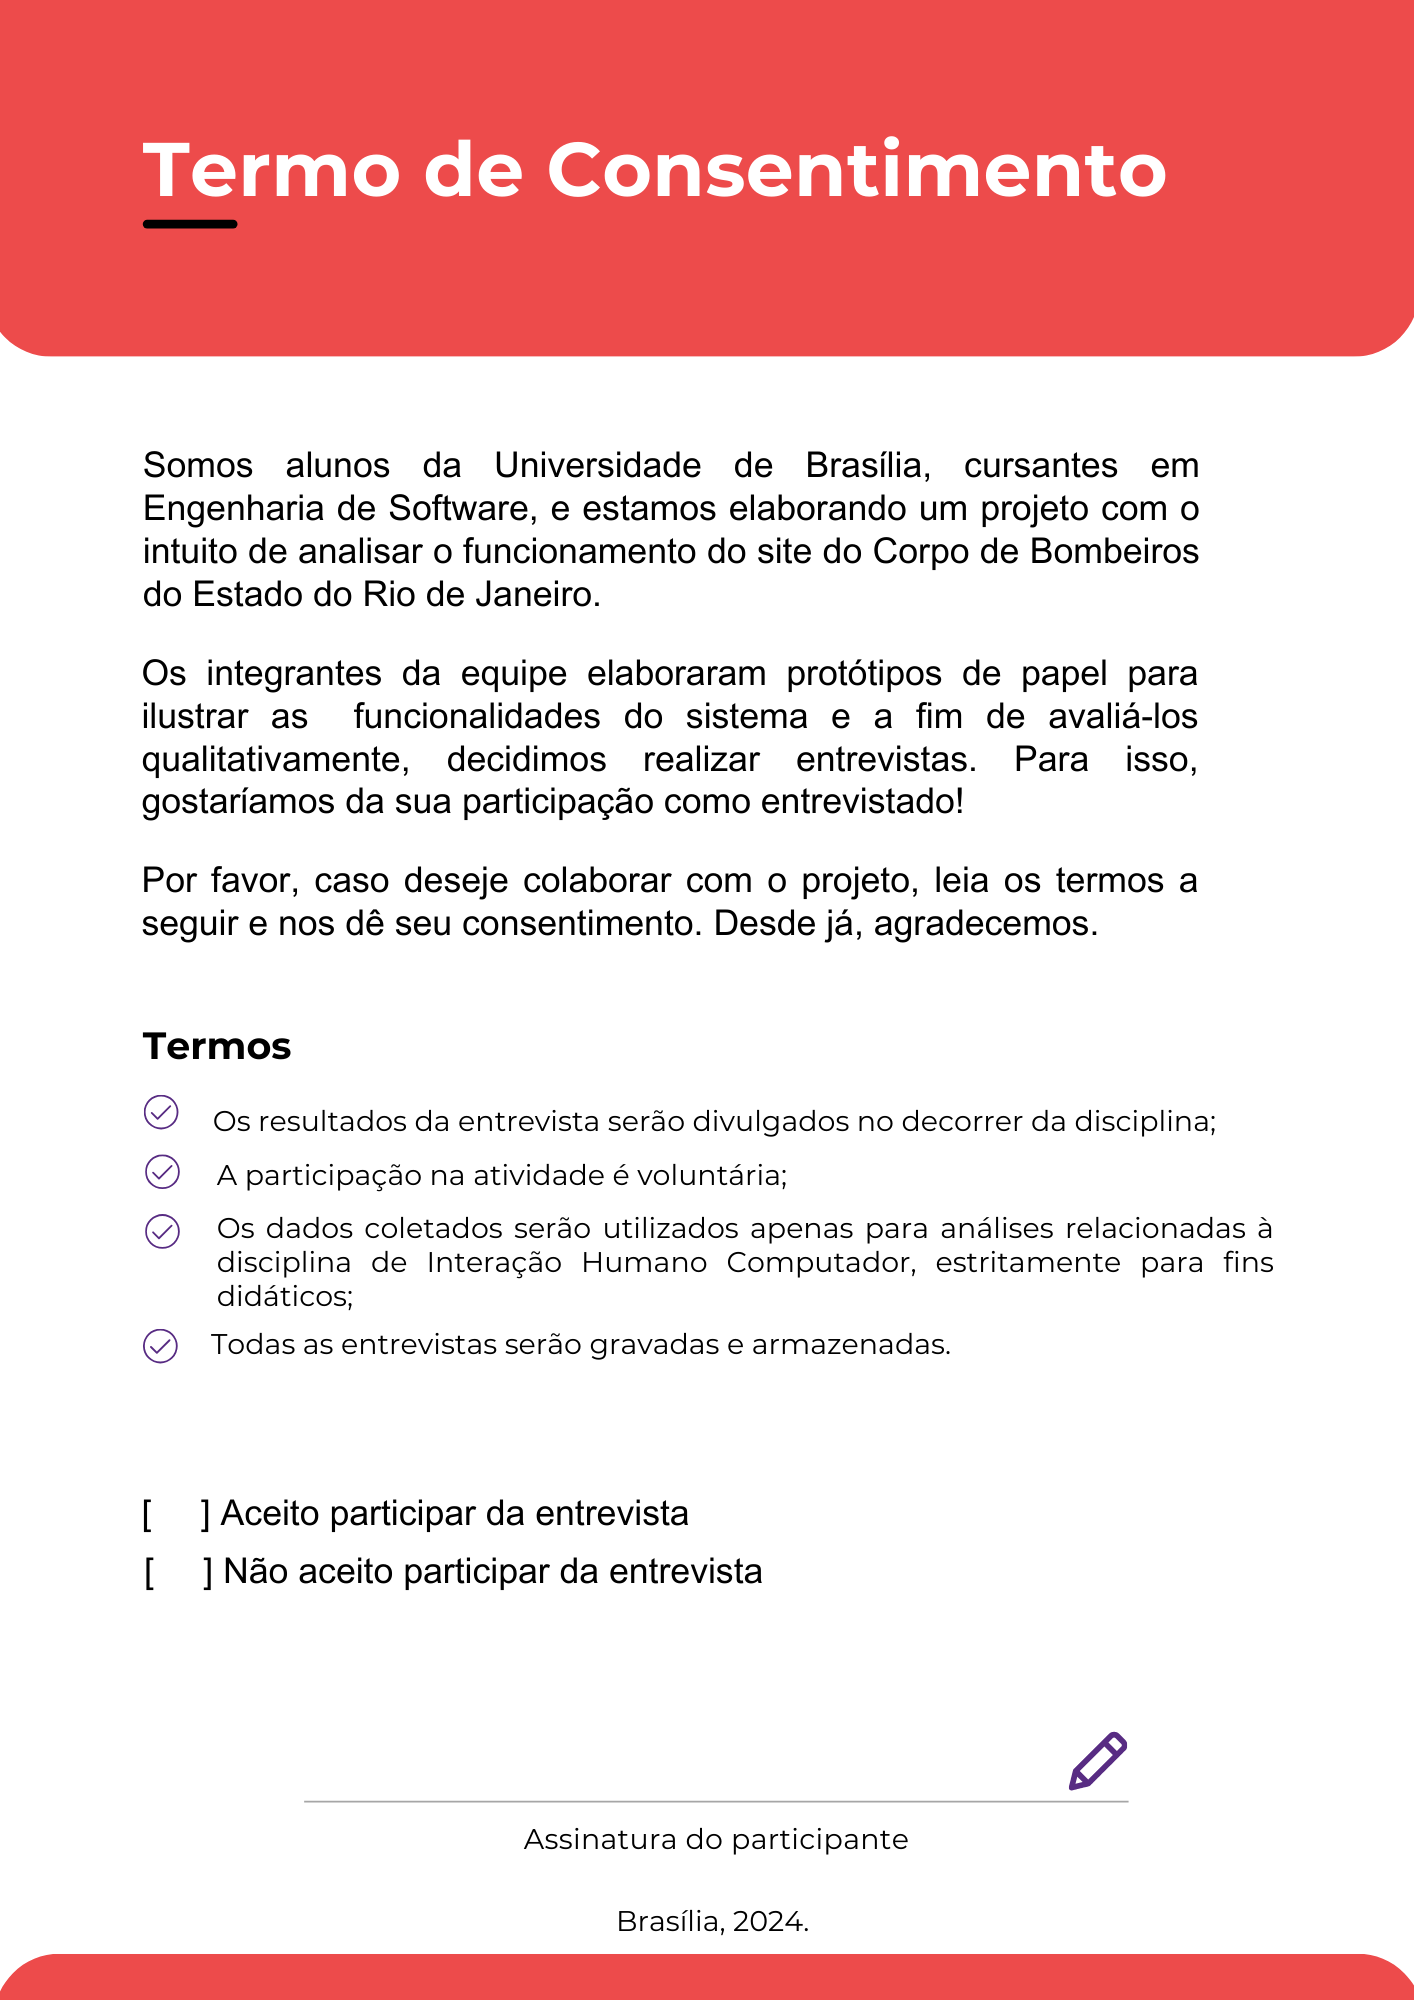
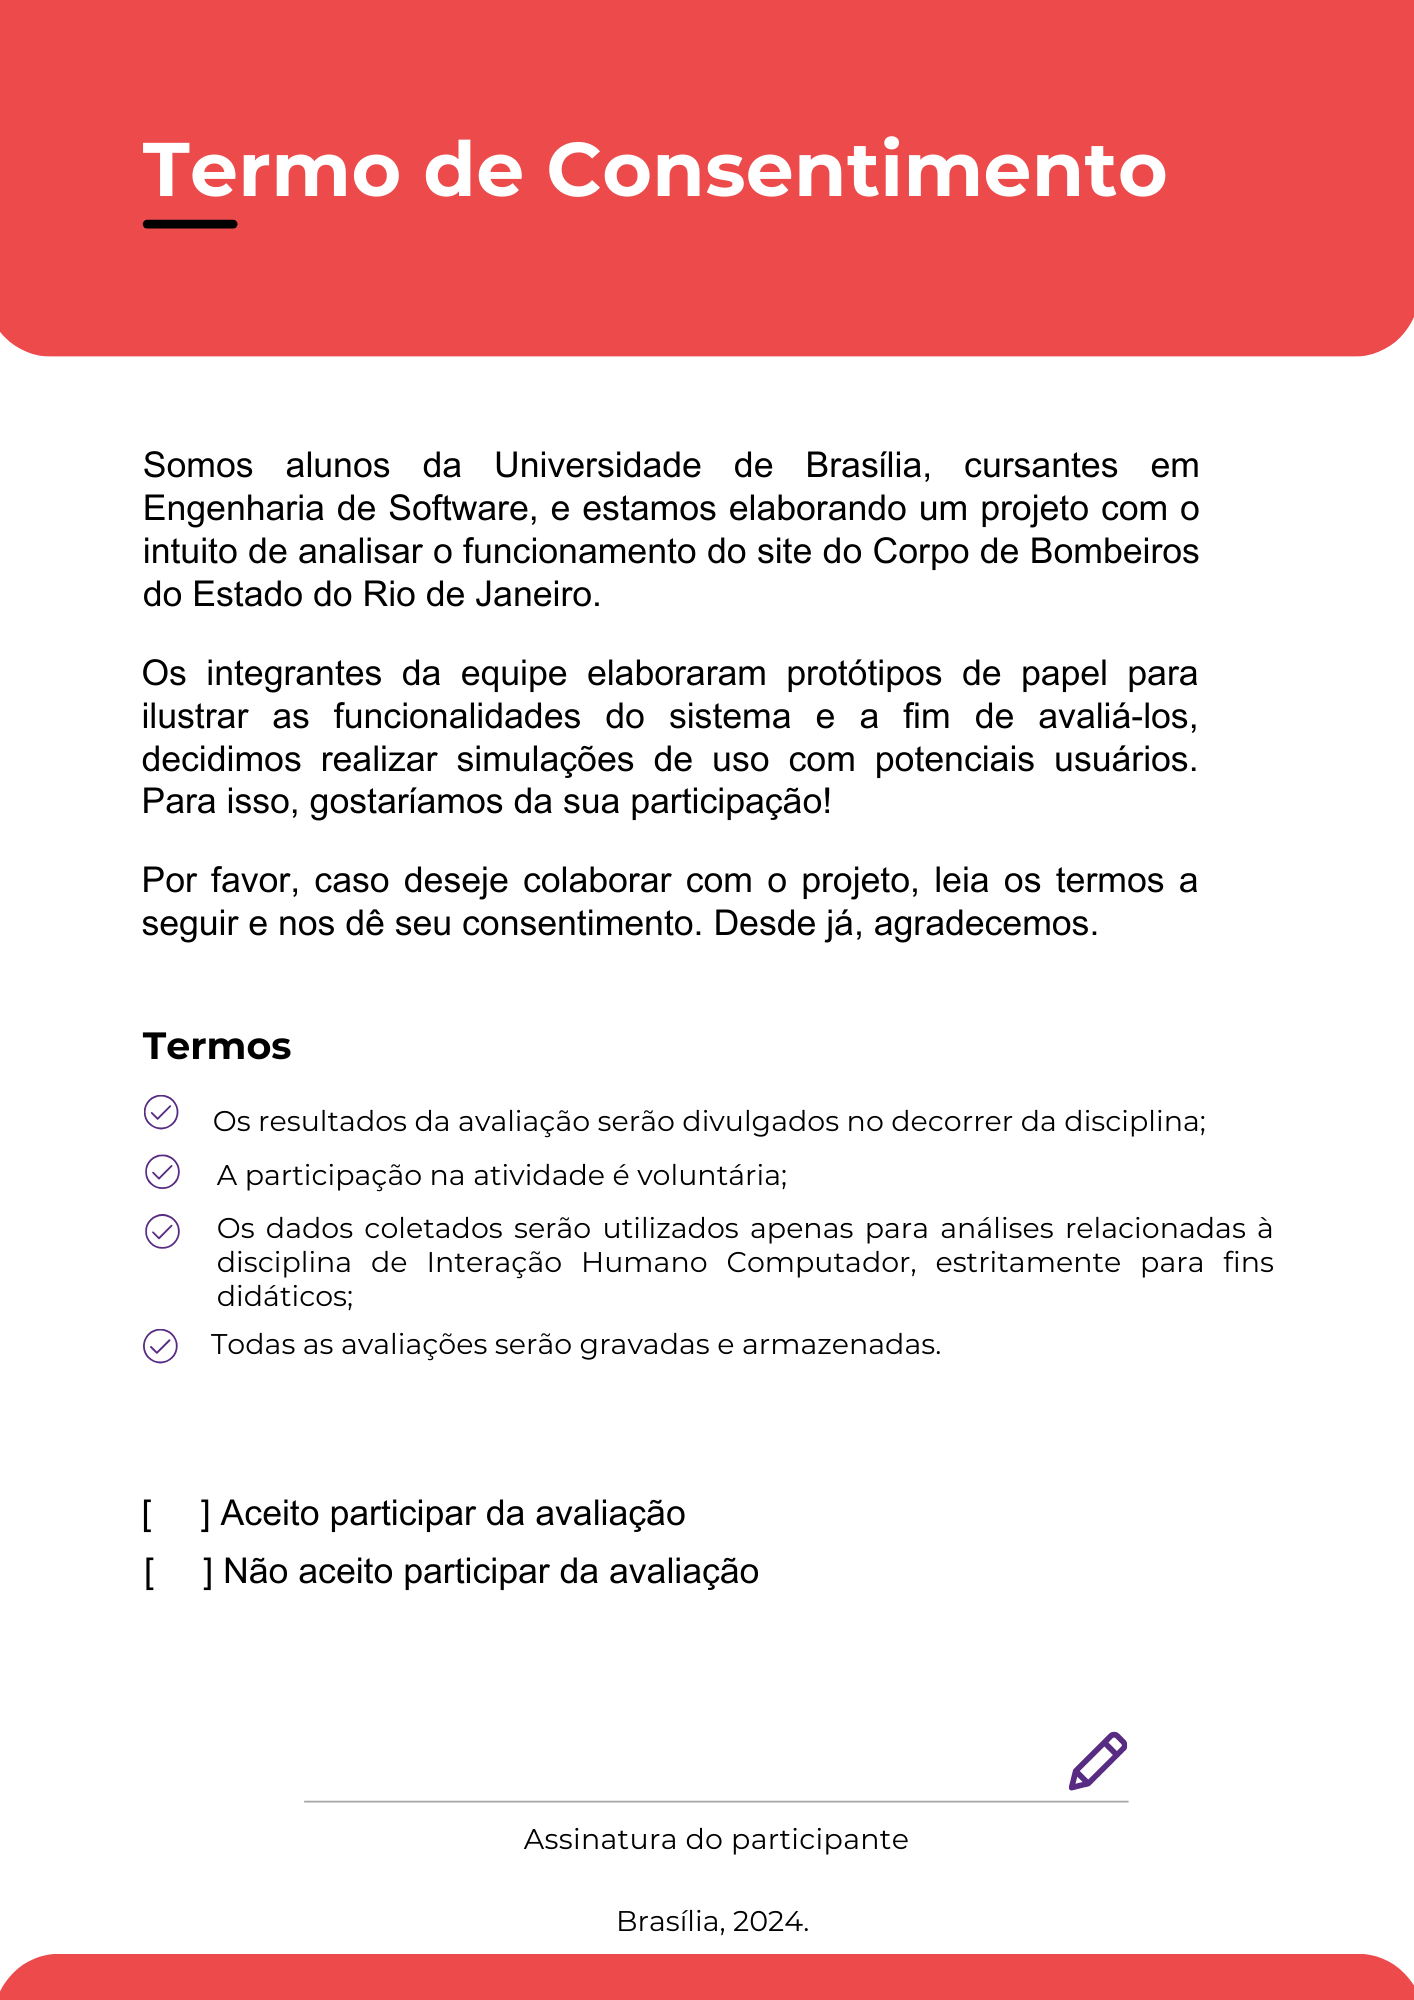
DECIDE + resultados storyboard

diff --git a/docs/design_avaliacao_desenvolvimento/nivel_1/story_board/relato_resultados.md b/docs/design_avaliacao_desenvolvimento/nivel_1/story_board/relato_resultados.md
@@ -13,7 +13,7 @@ Segue abaixo na tabela 1, o cronograma das entrevistas feitas:
 |    Entrevistador(es)   | Entrevistado(s)   | Horário do Início  |  Horário do Fim  |    Data    |    Tarefa(s)    |      Local     |
 | :--------------------: | :---------------: | :----------------: | :--------------: | :--------: | :-------------: | :------------: |
 | [Mariana Letícia](https://github.com/Marianannn) | Bernardo Machado | 10:00 | 10:15 | 24/05/2024 | Solicitar declaração de registro de ocorrência  | FGA |
-| [Daniela Alarcão](https://github.com/danialarcao) | João Vitor Merlim | 12:00 | 12:30 | 24/05/2024 | Agendamento de atendimento presencial | FGA |
+| [Daniela Alarcão](https://github.com/danialarcao) | Felipe da Silva Xavier Pereira | 17:00 | 17:04 | 28/05/2024 | Agendamento de atendimento presencial | PGJM |
 | [Pedro Henrique](https://github.com/PedroHhenriq) |     Lucas Monteiro    |      12:00     |     12:30     |  28/05/2024  |   CB Cursos 2   | FGA |
 | [Lucas Avelar](https://github.com/LucasAvelar2711) |     Renan Monteiro    |      12:00      |     12:30      |  28/05/2024  |   CB Cursos 1   |  FGA |
 | [Bruna Lima](https://github.com/libruna) | Marina Márcia | 14:45 | 14:53 |  29/05/2024  |  Solicitação de Ficha de Atendimento | FGA |
@@ -143,6 +143,56 @@ As perguntas e suas respectivas respostas podem ser encontradas na **Tabela 3** 
 
 - **Sugestões de melhoria:** Dado que a participante não apresentou problemas ou dificuldades durante a visualização do storyboard, não há sugestões de melhoria a serem destacadas.
 
+## Entrevista 3 - Agendamento de Atendimento Presencial
+
+<center>
+[Link para o vídeo da entrevista](https://youtu.be/Lt-4Gh-kDgg?si=FAY51G0M0CZZiijN)
+
+<iframe width="1000vw" height="400vh" src="https://www.youtube.com/embed/Lt-4Gh-kDgg?si=lqZHO5Cy03MrOMNw" title="YouTube video player" frameborder="0" allow="accelerometer; autoplay; clipboard-write; encrypted-media; gyroscope; picture-in-picture; web-share" referrerpolicy="strict-origin-when-cross-origin" allowfullscreen></iframe>
+
+
+<p>Vídeo 3: Entrevista 3 - Agendamento de Atendimento Presencial</p>
+
+Fonte: [Daniela Alarcão](https://github.com/danialarcao).
+</center><br>
+
+<ul>
+<li><p style="text-align: justify;"><strong>Coleta de dados: </strong> Para a entrevista acerca do Agendamento de Atendimento Presencial foram realizadas perguntas gerais sobre o entrevistado e perguntas específicas sobre o storyboard. O entrevistado é o Felipe da Silva Xavier Pereira, de 23 anos, servidor público do Ministério Público Militar.<br><br>
+As perguntas e suas respectivas respostas podem ser encontradas na <strong>Tabela 4 </strong> abaixo:</li></p>
+</ul>
+
+<center>
+
+| <div align="center">Número</div> | <div align="center">Pergunta</div> | <div align="center">Respostas</div> |
+| :-------------------------------: | :-----------------------------------------------------------------------: | :---------------------------------: |
+| <div align="center">1</div>       | <div align="center">Qual o seu nome?</div>                                | <div align="center">Felipe.</div>   |
+| <div align="center">2</div>       | <div align="center">Qual a sua idade?</div>                               | <div align="center">23.</div>       |
+| <div align="center">3</div>       | <div align="center">Como você avalia o seu grau de conhecimento tecnológico?</div> | <div align="center">Alto.</div> |
+| <div align="center">4</div>       | <div align="center">Você já utilizou o site do Corpo de Bombeiros Militar do Rio de Janeiro ou algum similar?</div> | <div align="center">Sim.</div> |
+| <div align="center">5</div>       | <div align="center">A sequência de passos apresentada pelo storyboard é clara e compreensível?</div> | <div align="center">Sim.</div> |
+| <div align="center">6</div>       | <div align="center">O contexto da história é facilmente compreendido?</div> | <div align="center">Sim.</div> |
+| <div align="center">7</div>       | <div align="center">Existe algo no storyboard que precise de ajuste?</div> | <div align="center">Sim, o antepenúltimo quadro. Na história contada no storyboard o relatório é disponibilizado pelo bombeiro no mesmo dia do atendimento presencial. Contudo, isso não seria possível, pois antes da conclusão do relatório deveria ser realizada uma perícia no local do incidente.</div> |
+
+**Fonte** - [Bruna Lima](https://github.com/libruna), [Daniela Alarcão](https://github.com/danialarcao), [Genilson Junior](https://github.com/manuziny), [Lucas Avelar](https://github.com/LucasAvelar2711), [Mariana Letícia](https://github.com/Marianannn) e [Pedro Henrique](https://github.com/PedroHhenriq).
+
+**Tabela 4** - Roteiro de perguntas da entrevista 3.
+</center>
+
+<br>
+
+<ul><strong>Interpretação dos dados: </strong>
+    <li><p style="text-align: justify;"> O entrevistado conseguiu compreender a sequência de eventos do storyboard. </p></li>
+    <li> O entrevistado conseguiu fornecer bons feedbacks. </li>
+    <ul>
+    <li><p style="text-align: justify;"><strong>Conclusão:</strong> Como o entrevistado não enfrentou dificuldades durante a entrevista e conseguiu compreender a história contada pelo storyboard da funcionalidade sem obstáculos, é possível concluir que o storyboard é claro e coerente.</p></li>
+    </ul>
+<ul><strong>Lista de problemas encontrados: </strong>
+<li> O andamento da entrevista não enfrentou quaisquer problemas. Tudo fluiu bem.</li>
+</ul>
+<ul><strong>Sugestões de melhoria: </strong>
+<li>Quanto à análise do storyboard, o entrevistado recomendou alterações na sequência de passos nos eventos finais, para que a história tenha mais compatibilidade com a vida real. </li>
+</ul></ul>
+
 
 
 
@@ -230,3 +280,4 @@ As perguntas e respostas representando a coleta de dados da entrevista 1 estão 
 | `2.0`   | 25/05/2024 | Adição de Introdução                        | [Mariana Letícia](https://github.com/Marianannn) |  [Bruna Lima](https://github.com/libruna)     |
 | `3.0`   | 25/05/2024 | Adição de relato de resultados 1                        | [Mariana Letícia](https://github.com/Marianannn) |    [Bruna Lima](https://github.com/libruna)   |
 | `4.0`   | 02/06/2024 | Adição de relato de resultados 2                       |  [Bruna Lima](https://github.com/libruna)  |     |
+| `5.0`   | 03/06/2024 | Adição de relato de resultados 3                       |  [Daniela Alarcão](https://github.com/danialarcao)  |     |

diff --git a/docs/design_avaliacao_desenvolvimento/nivel_2/prototipo_papel/planejamento_prototipo_papel.md b/docs/design_avaliacao_desenvolvimento/nivel_2/prototipo_papel/planejamento_prototipo_papel.md
@@ -16,7 +16,7 @@
 ## E - Explorar perguntas
 
 ## C - Escolher método
-<p style="text-align: justify;"> O método escolhido para a avaliação foi o da <strong>entrevista</strong>. Personalizável e ágil, esse método permite adaptar as perguntas de acordo com as particularidades do projeto e do andamento do diálogo, ao mesmo tempo em que agiliza a coleta e análise dos dados, a partir da obtenção de feedbacks detalhados e qualitativos. </p>
+<p style="text-align: justify;"> O método escolhido para a avaliação foi o <strong>"prototipação em papel"</strong>. Esse método avalia a usabilidade do protótipo através de simulações de uso com a participação de usuários. Neste método, cada membro da equipe atuará como um "computador", simulando em papel a execução do sistema e suas respostas às ações do usuário. </p>
 
 
 ## I - Identificar questões práticas 
@@ -73,16 +73,16 @@ Na Tabela 1, apresentamos o cronograma planejado das sessões para avaliação d
 </center>
 
 ## D - Decidir questões éticas
-<p style="text-align: justify;">Em consonância com os princípios éticos e de integridade, foi elaborado um termo de consentimento que deverá ser assinado por cada entrevistado antes do início da avaliação dos protótipos de papel. Este documento detalha os procedimentos envolvidos na entrevista e a forma como os dados serão utilizados. A assinatura deste termo será voluntária e demonstrará o consentimento informado do participante para realizar a entrevista. Tal medida visa assegurar que todos os envolvidos estejam plenamente cientes e confortáveis com sua participação. </p>
+<p style="text-align: justify;">Em consonância com os princípios éticos e de integridade, foi elaborado um termo de consentimento que deverá ser assinado por cada usuário antes do início da avaliação dos protótipos de papel. Este documento detalha os procedimentos envolvidos na avaliação e a forma como os dados serão utilizados. A assinatura deste termo será voluntária e demonstrará o consentimento informado do participante. Tal medida visa assegurar que todos os envolvidos estejam plenamente cientes e confortáveis com sua participação. </p>
 
 <img alt="Logo" src="../../prototipo_papel/img/TermoDeConsentimento.png" width="80%">
 <p>Figura 1 - Termo de Consentimento (Fonte: Daniela Alarcão, 2024). </p>
 
 ## E - Examinar dados
 
-<p style="text-align: justify;">Durante a realização das entrevistas, a equipe observará atentamente todas as considerações feitas pelos entrevistados. Essas considerações incluirão comentários sobre aspectos intuitivos ou confusos, preferências pessoais e sugestões de melhorias. O feedback dos entrevistados fornecerá uma perspectiva valiosa sobre a percepção dos protótipos de papel e ajudará a identificar oportunidades de melhorias. </p>
+<p style="text-align: justify;">Durante a realização das avaliações, a equipe observará atentamente todas as considerações feitas pelos usuários escolhidos. Essas considerações incluirão comentários sobre aspectos intuitivos ou confusos, preferências pessoais e sugestões de melhorias. O feedback dos usuários fornecerá uma perspectiva valiosa sobre a percepção dos protótipos de papel e ajudará a identificar oportunidades de melhorias. </p>
 
-<p style="text-align: justify;">Ao final de cada entrevista, a equipe discutirá todos os pontos abordados e documentará o máximo possível das informações coletadas. Isso garantirá que nenhum detalhe importante seja perdido e permitirá uma análise mais abrangente. </p>
+<p style="text-align: justify;">Ao final de cada avaliação, a equipe discutirá todas as informações coletadas. Isso garantirá que nenhum detalhe importante seja perdido e permitirá uma análise mais abrangente. </p>
 
 <p style="text-align: justify;">Com todas as informações coletadas e documentadas, a equipe realizará uma análise detalhada para identificar os pontos fortes de cada protótipo de papel, bem como as áreas que necessitam de melhorias. Essa análise será fundamental para orientar as modificações necessárias, garantindo que cada protótipo se alinhem melhor com as expectativas e necessidades dos usuários. </p>
 

diff --git a/docs/design_avaliacao_desenvolvimento/nivel_1/analise_tarefas/relato_resultados.md b/docs/design_avaliacao_desenvolvimento/nivel_1/analise_tarefas/relato_resultados.md
@@ -150,7 +150,7 @@ Fonte: [Daniela Alarcão](https://github.com/danialarcao).
 </center><br>
 
 <ul>
-<li><p style="text-align: justify;"><strong>Coleta de dados: </strong> Para a entrevista acerca do Agendamento de Atendimento Presencial foram realizadas tanto perguntas fechadas quanto abertas. O entrevistado é o Felipe da Silva Xavier Pereira, de 23 anos, servidor público do Ministério Público Militar.<br><br>
+<li><p style="text-align: justify;"><strong>Coleta de dados: </strong> Para a entrevista acerca do Agendamento de Atendimento Presencial foram realizadas perguntas gerais sobre o entrevistado e perguntas específicas sobre a análise da tarefa de agendamento de atendimento presencial. O entrevistado é o Felipe da Silva Xavier Pereira, de 23 anos, servidor público do Ministério Público Militar<br><br>
 As perguntas e suas respectivas respostas podem ser encontradas na <strong>Tabela 4 </strong> abaixo:</li></p>
 </ul>
 
